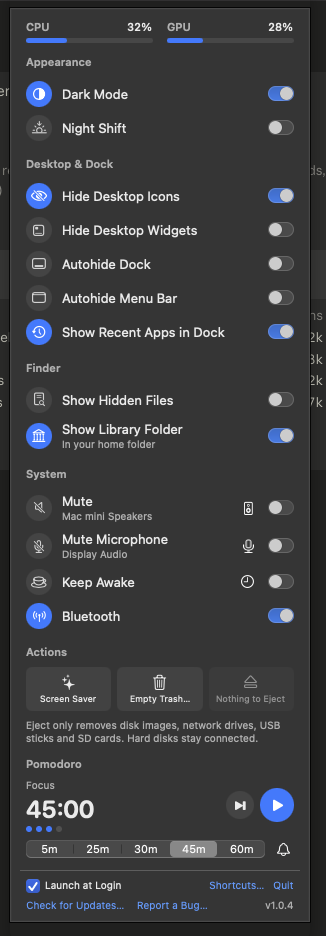
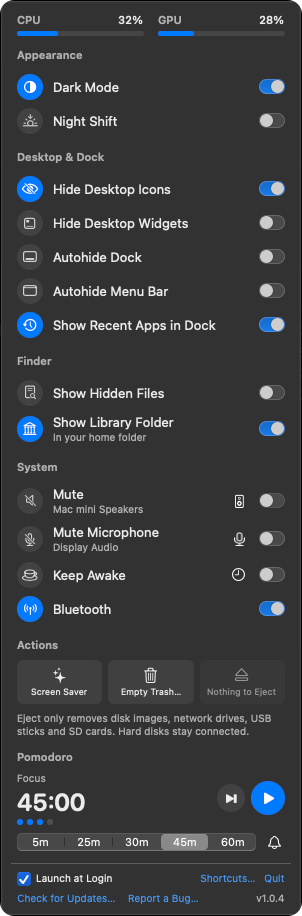
README: 1.0.5 screenshot, cropped to the panel

Changed region(s): [[0.0, 0.0, 1.0, 1.0]]

diff --git a/README.md b/README.md
@@ -6,7 +6,7 @@ each showing its real current state. Plus a Pomodoro timer, CPU and GPU meters, 
 global keyboard shortcut for anything. Native Swift, very light on your Mac (it doesn't
 poll), free and open source.
 
-<p align="center"><img src="docs/screenshot-1.0.1.png" width="302" alt="The Switchboard panel"></p>
+<p align="center"><img src="docs/screenshot-1.0.5.png" width="302" alt="The Switchboard panel"></p>
 
 ## Download
 
